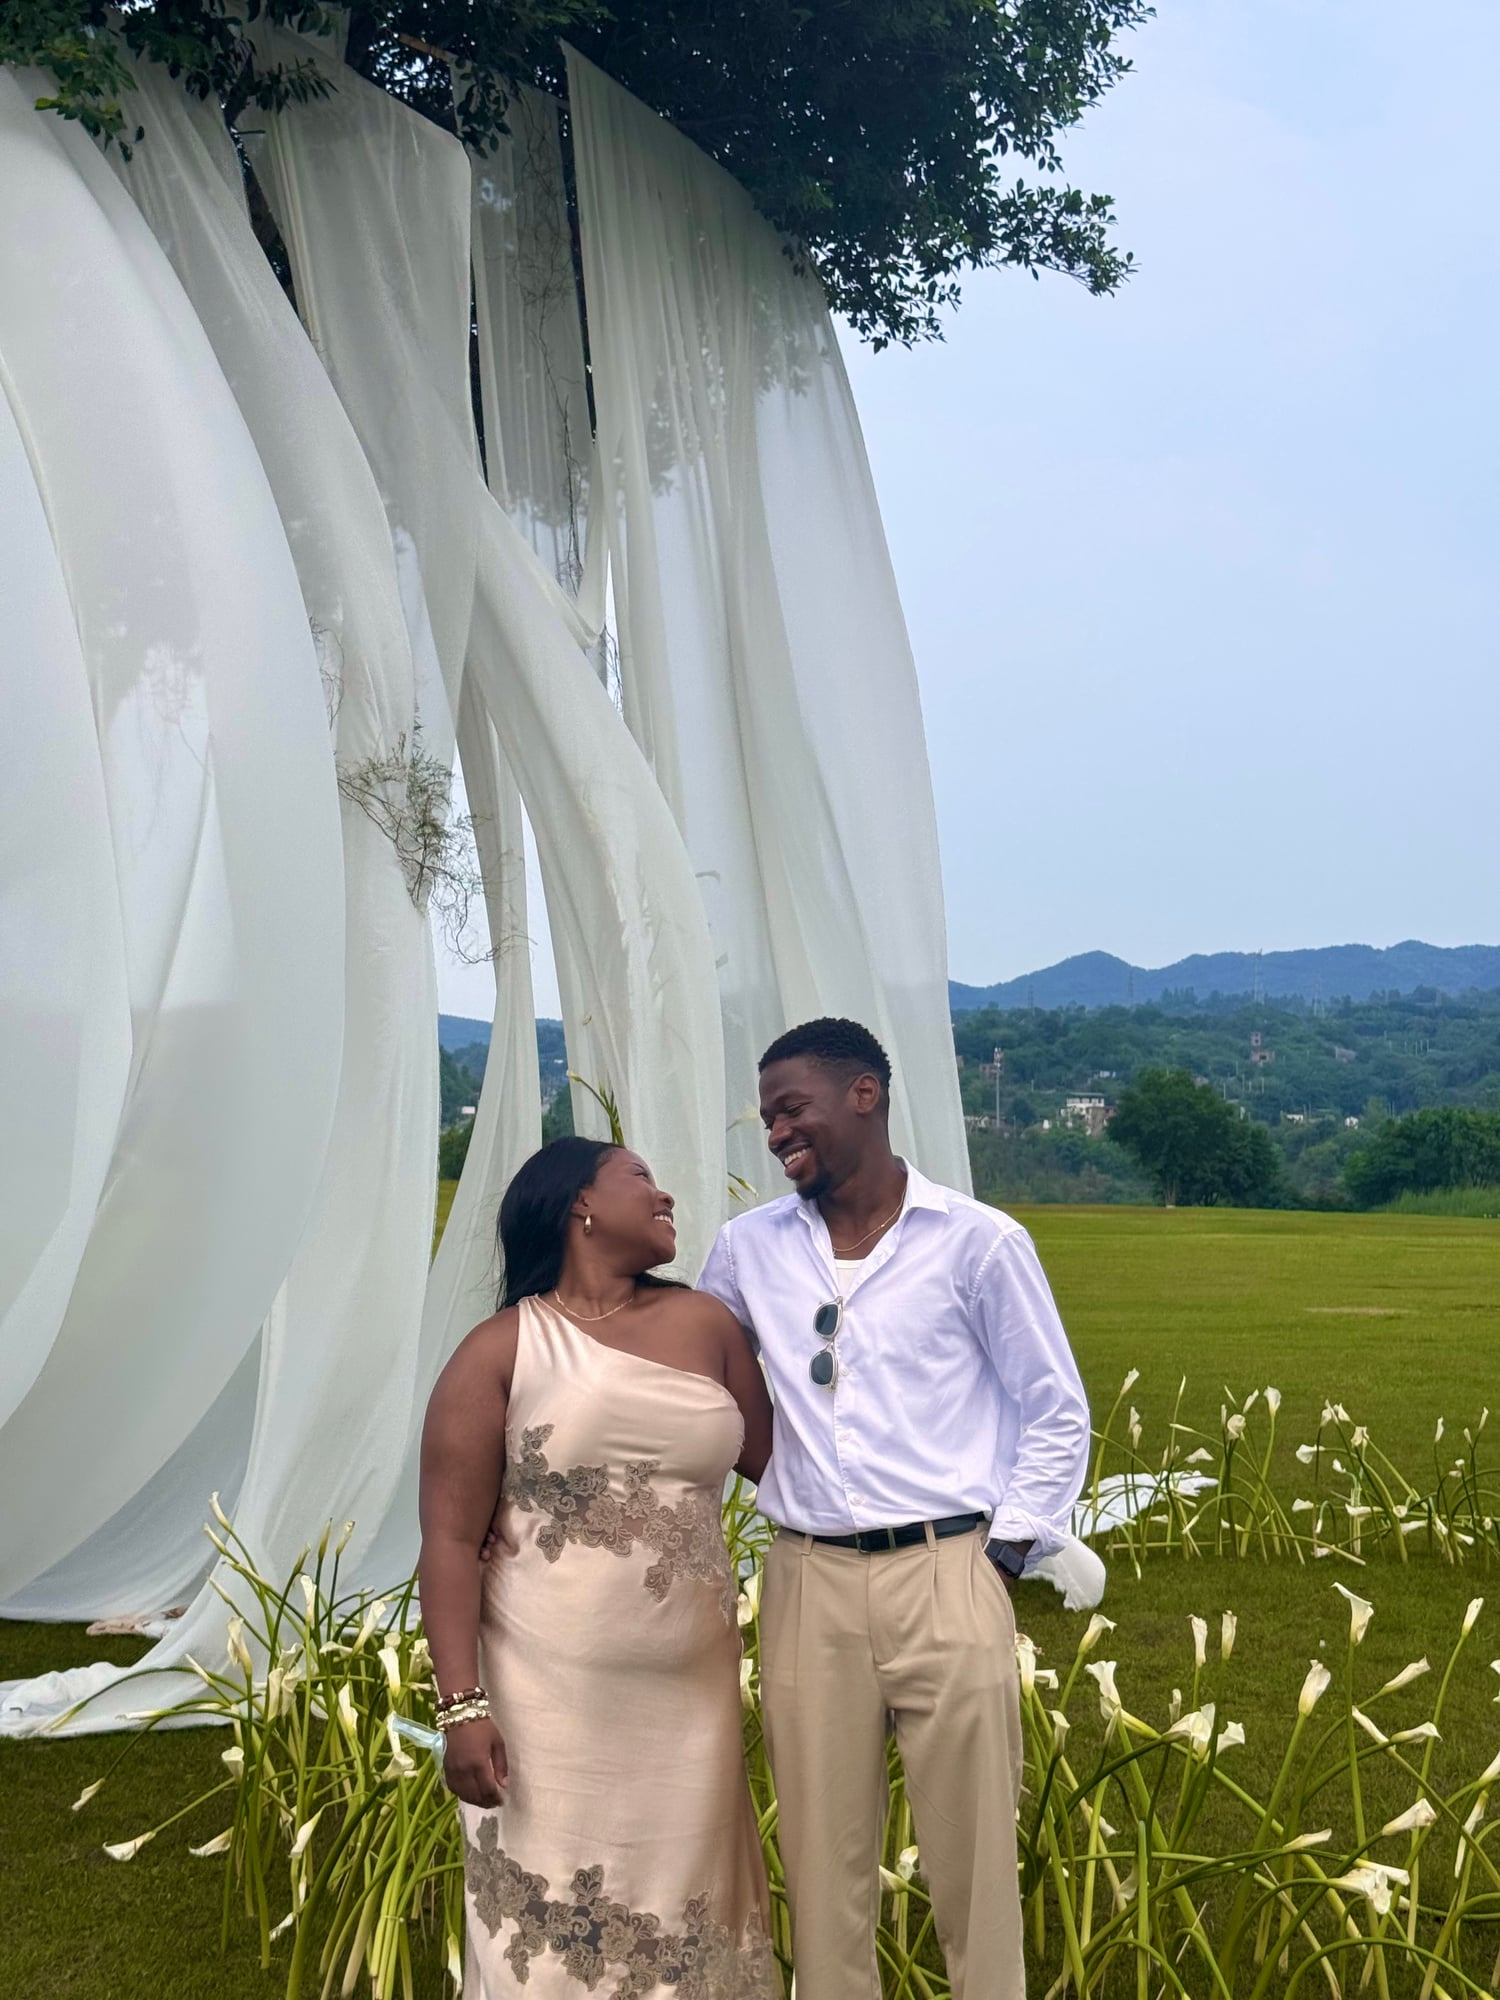
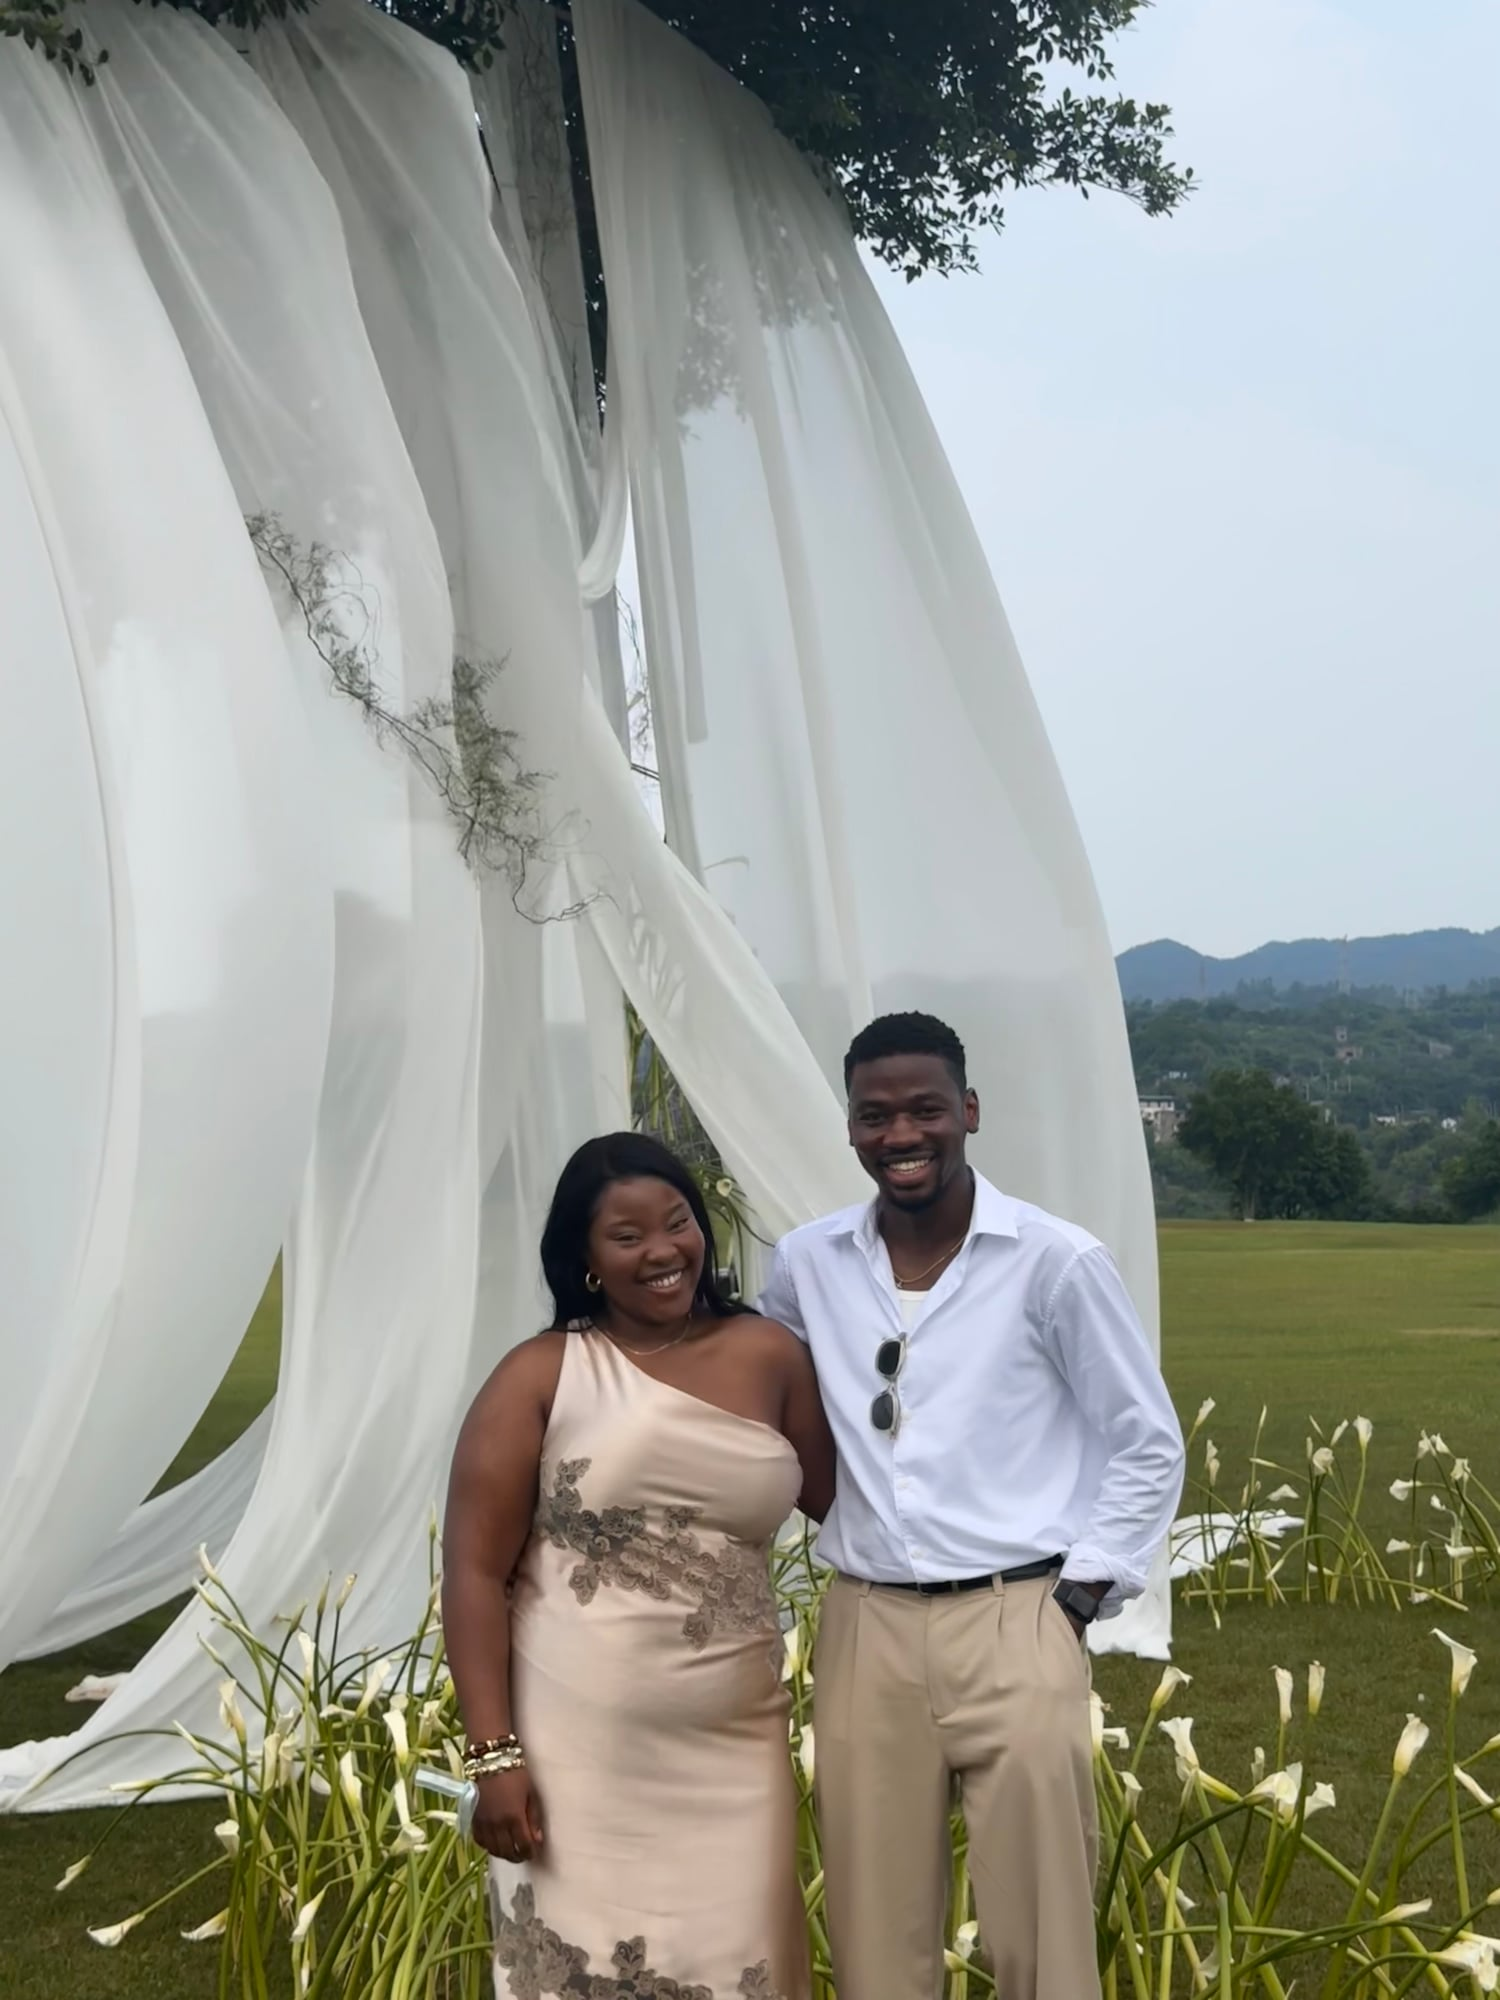
feat: add netlify deploy

diff --git a/src/views/LoveJarPage.vue b/src/views/LoveJarPage.vue
@@ -12,7 +12,7 @@
     <section class="section random-note-section">
       <div class="container">
         <div class="random-note-container">
-          <h2 class="section-title">Pick a Note</h2>
+          <h2 class="section-title">Reveal a Note</h2>
           <p class="section-description">Click the button below to reveal a random note from our collection</p>
           
           <button 
@@ -20,7 +20,7 @@
             class="btn btn-primary pick-note-btn"
             :disabled="notes.length === 0 || loading"
           >
-            {{ currentNote ? 'Pick Another Note' : 'Pick a Note' }}
+            {{ currentNote ? 'Reveal Another Note' : 'Reveal a Note' }}
           </button>
 
           <div v-if="loadError" class="empty-state error-state">

diff --git a/src/views/HomePage.vue b/src/views/HomePage.vue
@@ -84,7 +84,7 @@
 </template>
 
 <script setup>
-import heroBackground from '../assets/images/China/china_002.jpg'
+import heroBackground from '../assets/images/China/china_001.jpg'
 </script>
 
 <style scoped>
